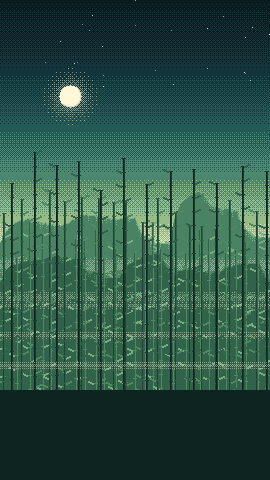
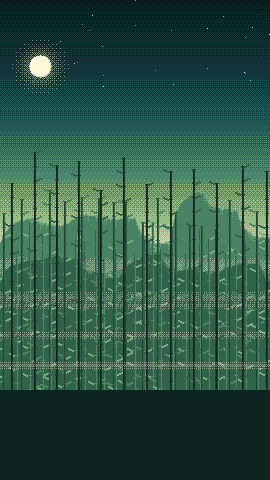
月亮與太陽移出招牌字與結算標題那一帶
Claude-Session: https://claude.ai/code/session_01QeYf7TbzB4pn5K453Ysv8T

Changed region(s): [[0.0593, 0.0938, 0.3556, 0.25]]

diff --git a/scripts/pixel-art/backdrops.py b/scripts/pixel-art/backdrops.py
@@ -301,7 +301,7 @@ def bolt(cv, x, y, length, col, glow, branch=True):
 # ---------------------------------------------------------------- 地貌
 def peaks(cv, p, rng):
     stars(cv, rng, p, 110)
-    orb(cv, p, 196, 104, 13)
+    orb(cv, p, 228, 66, 13)
     mist(cv, p, HORIZON - 44, 18, 0.35)
     ridge(cv, rng, HORIZON - 8, 78, 30, p["mtn"][0], p["hi"][0], sharp=1.5)
     mist(cv, p, HORIZON + 8, 16, 0.5)
@@ -317,7 +317,7 @@ def peaks(cv, p, rng):
 
 def forest(cv, p, rng):
     stars(cv, rng, p, 90)
-    orb(cv, p, 70, 96, 11, craters=False)
+    orb(cv, p, 40, 66, 11, craters=False)
     ridge(cv, rng, HORIZON - 4, 60, 34, p["mtn"][0], p["hi"][0], sharp=1.3)
     mist(cv, p, HORIZON + 6, 20, 0.55)
     ridge(cv, rng, HORIZON + 34, 34, 20, p["mtn"][1], p["hi"][1])
@@ -357,7 +357,7 @@ def sea(cv, p, rng):
 
 def volcano(cv, p, rng):
     stars(cv, rng, p, 100)
-    orb(cv, p, 60, 92, 10, craters=False)
+    orb(cv, p, 36, 68, 10, craters=False)
     ridge(cv, rng, HORIZON - 4, 40, 30, p["mtn"][0], p["hi"][0])
     vx, top, base = 190, HORIZON - 90, HORIZON + 30
     for j in range(top, base):
@@ -397,7 +397,7 @@ def volcano(cv, p, rng):
 
 def palace(cv, p, rng):
     stars(cv, rng, p, 130)
-    orb(cv, p, 194, 100, 16)
+    orb(cv, p, 226, 66, 15)
     ridge(cv, rng, HORIZON - 10, 70, 32, p["mtn"][0], p["hi"][0], sharp=1.4)
     mist(cv, p, HORIZON + 4, 18, 0.5)
     r1 = ridge(cv, rng, HORIZON + 40, 50, 26, p["mtn"][1], p["hi"][1])
@@ -424,7 +424,7 @@ def voidrock(cv, p, rng):
                 k = 0.45 * (1 - abs(j) / 8)
                 if dith(x, int(yc + j), k):
                     cv.set(x, int(yc + j), aur, 0.55)
-    orb(cv, p, 60, 120, 9, craters=False)
+    orb(cv, p, 30, 106, 9, craters=False)
     for (cx, cy, w, k) in ((200, 140, 40, 0), (70, 196, 30, 0), (150, 226, 50, 1), (232, 254, 26, 1), (40, 276, 36, 2)):
         depth = w // 2 + 6
         for j in range(depth):
@@ -478,10 +478,10 @@ def celestial(cv, p, rng):
             for x in range(int(x0 - half), int(x0 + half)):
                 if dith(x, y, 0.18 * (1 - y / (HORIZON + 60))):
                     cv.set(x, y, light, 0.6)
-    orb(cv, p, 135, 92, 14, halo=3.4, craters=False)
+    orb(cv, p, 135, 58, 12, halo=3.0, craters=False)
     # 浮環
     for k in range(3):
-        cy, rx, ry = 92, 34 + k * 14, 8 + k * 3
+        cy, rx, ry = 58, 30 + k * 12, 6 + k * 2
         for a in range(0, 360, 2):
             x = int(135 + rx * math.cos(math.radians(a)))
             y = int(cy + ry * math.sin(math.radians(a)))
@@ -513,7 +513,7 @@ def lum(c):
 
 
 def settle(cv, p, start=130, ramp=50, target=0.3):
-    """介面安全區：主要的面板與說明字都在畫面中下段，那一段的遠景整體壓暗到平均亮度 target 以下。
+    """介面安全區（月亮、太陽也都擺在第 110 列以上、避開畫面正中——招牌字與結算標題在那一帶）：主要的面板與說明字都在畫面中下段，那一段的遠景整體壓暗到平均亮度 target 以下。
 
     天界的雲海、金丹的午後天光本身很亮，字直接寫在上面就讀不到。
     壓暗是往這張圖最深的山色靠，不是往黑色靠——色相留著，只是沉下去。
